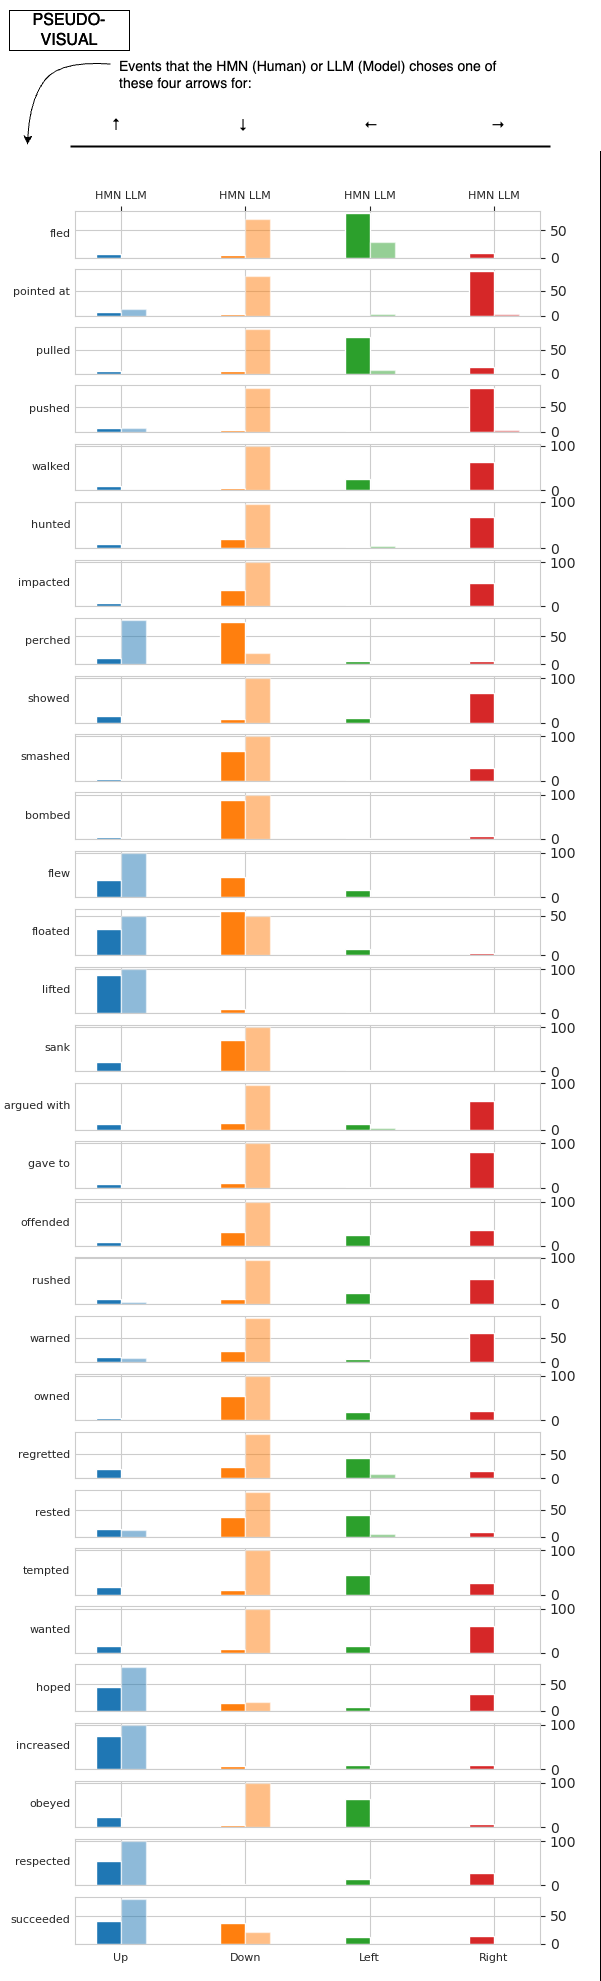
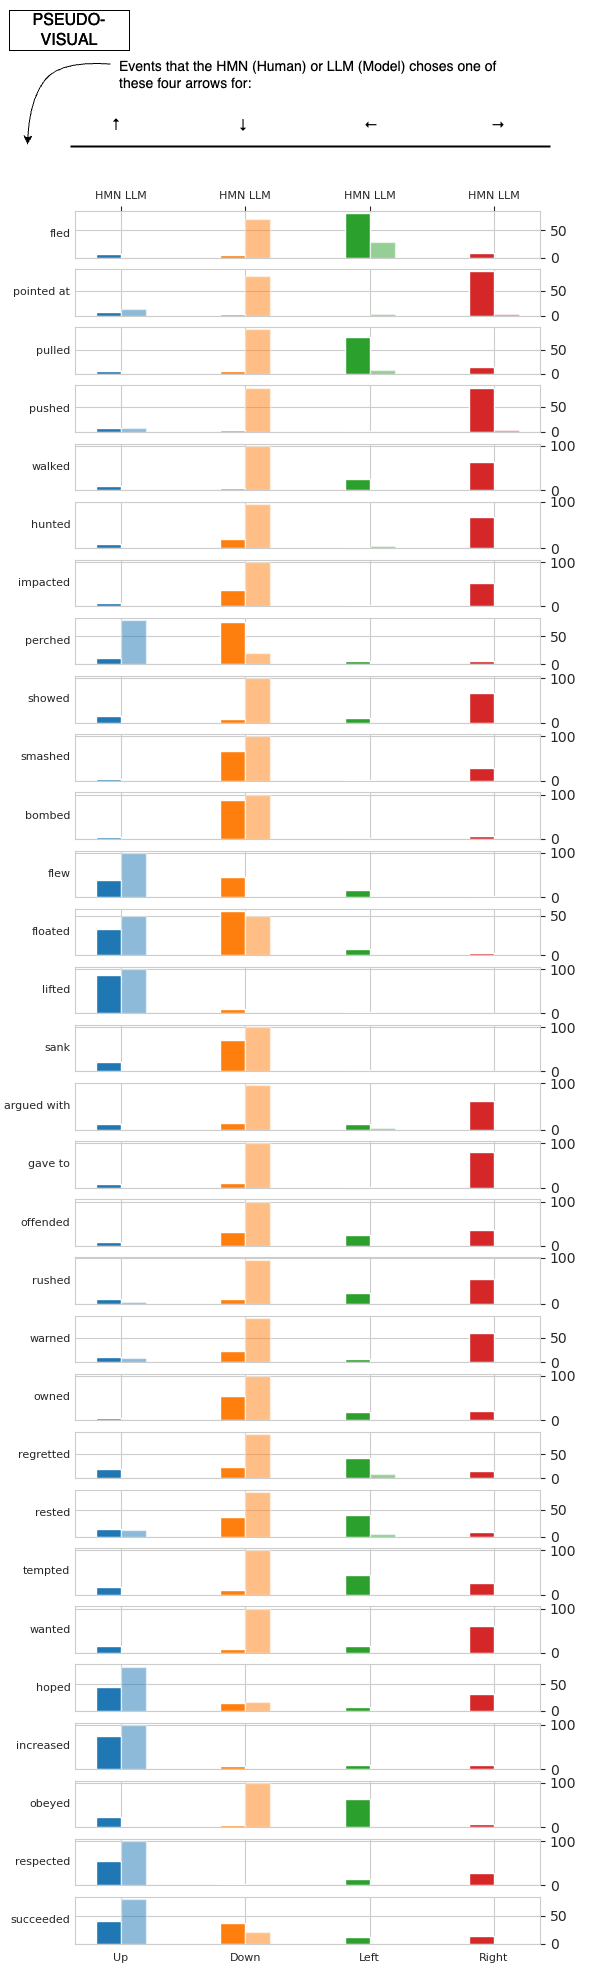
images cropped

diff --git a/lister.py b/lister.py
@@ -36,9 +36,8 @@ for condition, model_list in models.items():
         header = Image.open(os.path.join(images_folder, condition, f'header_{condition.lower()}.png'))
         header_width, header_height = header.size
         # create a new image that starts with the header image and append the image of the model below it
-        new_image = Image.new('RGB', (header_width, header_height + image.height))
+        new_image = Image.new('RGB', (image.width, header_height + image.height))
         new_image.paste(header, (0, 0))
         new_image.paste(image, (0, header_height))
         new_image.save(os.path.join(images_folder, condition, f'{condition}_{model}_Choices.png'))
         print(f'{condition}_{model}_Choices.png has been saved with header')
-        
